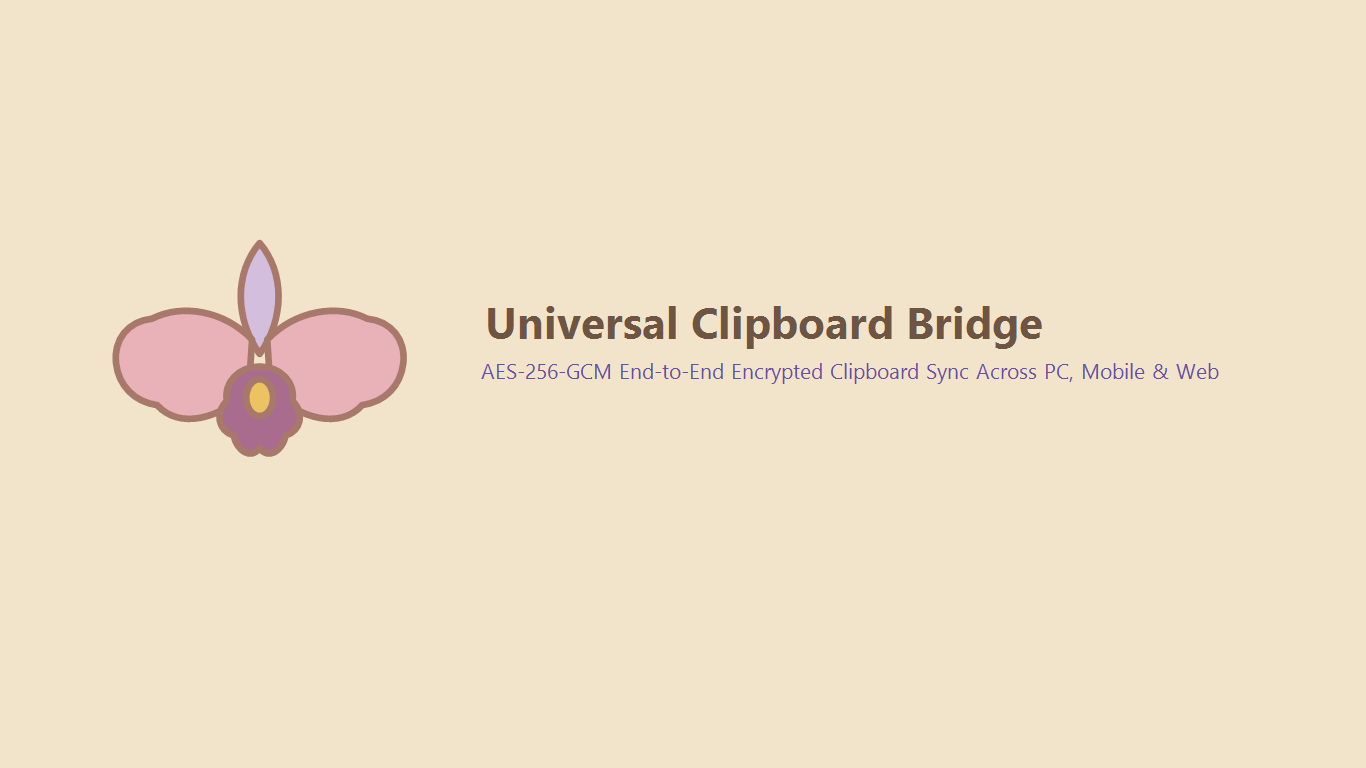
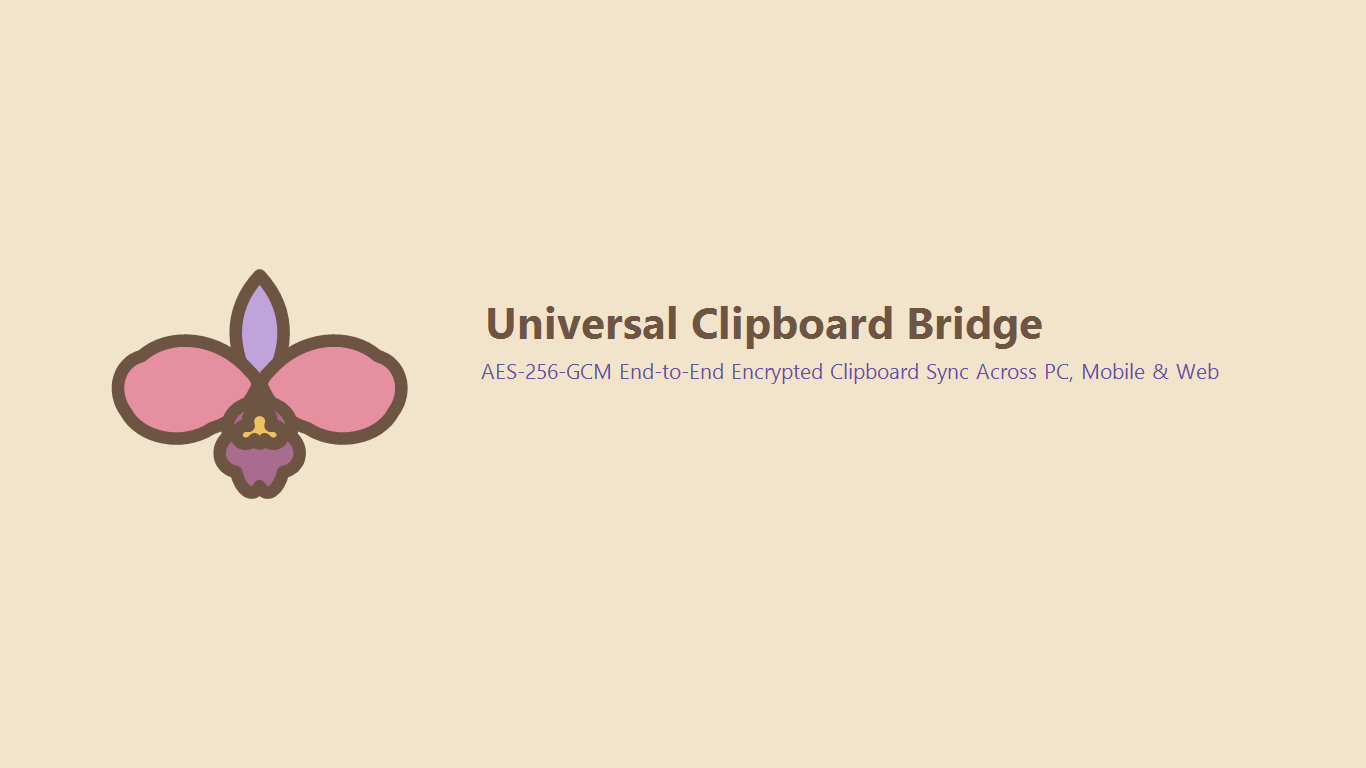
refactor(desktop): 아이콘 외곽선을 굵고 진하게 하고 SVG 단일 원본으로 통일한다

Changed region(s): [[0.0615, 0.3125, 0.3075, 0.6562]]

diff --git a/test/UnitTests/DesktopVisualAssetsContractTest.cs b/test/UnitTests/DesktopVisualAssetsContractTest.cs
@@ -70,11 +70,56 @@ public sealed class DesktopVisualAssetsContractTest
         // ✅ 작업표시줄 아이콘과 앱 내 로고는 동일한 다색 일러스트를 사용한다.
         foreground.Should().Contain("id=\"petal-top\"");
         foreground.Should().Contain("id=\"orchid-throat\"");
-        foreground.Should().Contain("#A8796A");
+        foreground.Should().Contain("stroke=\"#6D5443\"");
         foreground.Should().NotContain("id=\"icon-tile\"");
         foreground.Should().NotContain("taskbar-orchid");
         generator.Should().NotContain("Draw-TaskbarOrchidGlyph");
         generator.Should().Contain("Draw-CompactOrchidMark -G $G");
+        generator.Should().Contain("Read-OrchidMarkSvg");
+        generator.Should().NotContain("FromArgb(255, 168, 121, 106)");
+    }
+
+    [Fact]
+    public void ForegroundAndLoginMarkShouldShareThickInkOutlineAndPaths()
+    {
+        // Given
+        string repoRoot = FindRepositoryRoot();
+        string foreground = File.ReadAllText(Path.Combine(repoRoot, "src/Resources/AppIcon/appiconfg.svg"));
+        string loginMark = File.ReadAllText(Path.Combine(repoRoot, "src/wwwroot/logo-login.svg"));
+
+        // When & Then
+        // ✅ 두 SVG는 같은 윤곽 굵기·색과 같은 꽃잎 경로를 사용한다.
+        foreground.Should().Contain("stroke-width=\"30\"").And.Contain("fill=\"#E58FA0\"").And.Contain("fill=\"#BFA3DA\"");
+        foreach (string id in PathIds)
+        {
+            ExtractPathData(foreground, id).Should().Be(ExtractPathData(loginMark, id));
+        }
+    }
+
+    [Fact]
+    public void IcoShouldContainAllRequiredSizes()
+    {
+        // Given
+        string repoRoot = FindRepositoryRoot();
+        byte[] ico = File.ReadAllBytes(Path.Combine(repoRoot, "src/Resources/AppIcon/appicon.ico"));
+
+        // When
+        int count = BitConverter.ToUInt16(ico, 4);
+        int[] sizes = Enumerable.Range(0, count).Select(i => ico[6 + (16 * i)] == 0 ? 256 : ico[6 + (16 * i)]).ToArray();
+
+        // Then
+        sizes.Should().BeEquivalentTo([16, 24, 32, 48, 64, 256]);
+    }
+
+    private static readonly string[] PathIds = ["petal-top", "petal-left", "petal-right", "orchid-core", "orchid-throat"];
+
+    private static string ExtractPathData(string svg, string id)
+    {
+        System.Text.RegularExpressions.Match match = System.Text.RegularExpressions.Regex.Match(
+            svg,
+            $"id=\"{id}\"[^>]* d=\"([^\"]+)\"");
+        match.Success.Should().BeTrue();
+        return match.Groups[1].Value;
     }
 
     [Fact]
@@ -88,9 +133,10 @@ public sealed class DesktopVisualAssetsContractTest
         // When & Then
         // ✅ 로그인 마크는 세 꽃잎과 작은 중심부만 남기고 데스크톱 캔버스는 투명하다.
         svg.Should().Contain("#A96C8E");
-        svg.Should().Contain("#E9B2B8");
-        svg.Should().Contain("#D3BEDD");
-        svg.Should().Contain("#A8796A");
+        svg.Should().Contain("#E58FA0");
+        svg.Should().Contain("#BFA3DA");
+        svg.Should().Contain("stroke=\"#6D5443\"");
+        svg.Should().Contain("stroke-width=\"30\"");
         svg.Should().Contain("id=\"petal-top\"");
         svg.Should().Contain("id=\"petal-left\"");
         svg.Should().Contain("id=\"petal-right\"");
